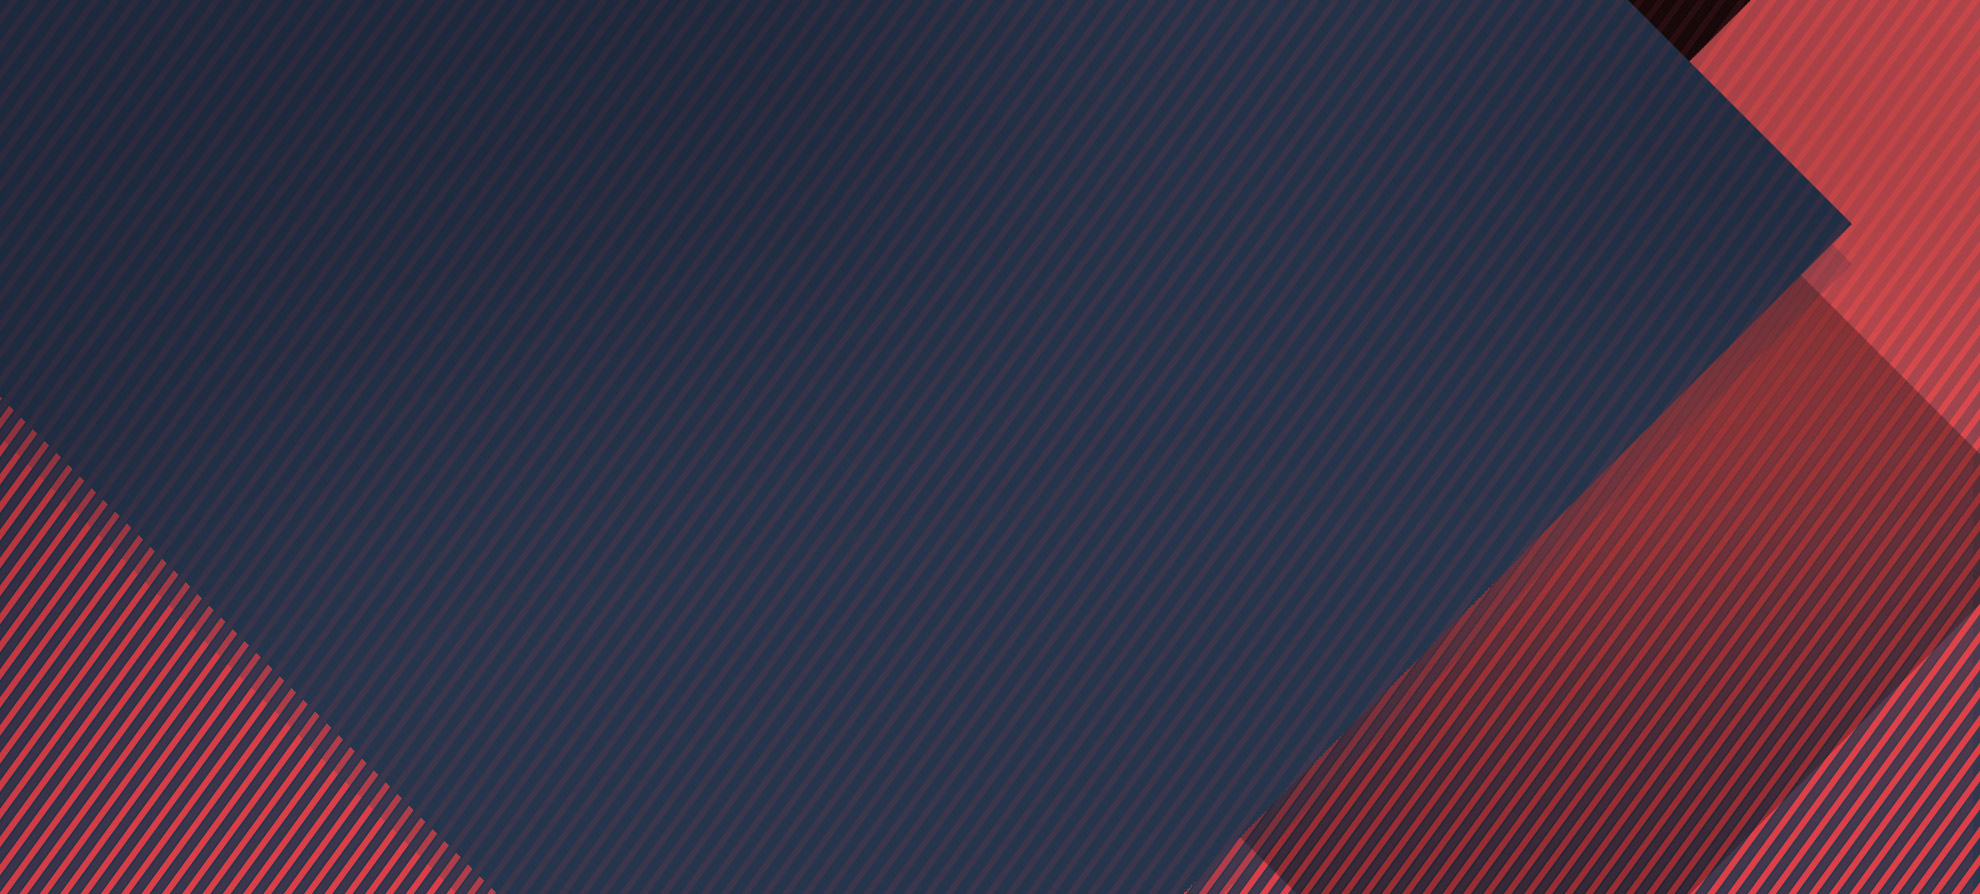
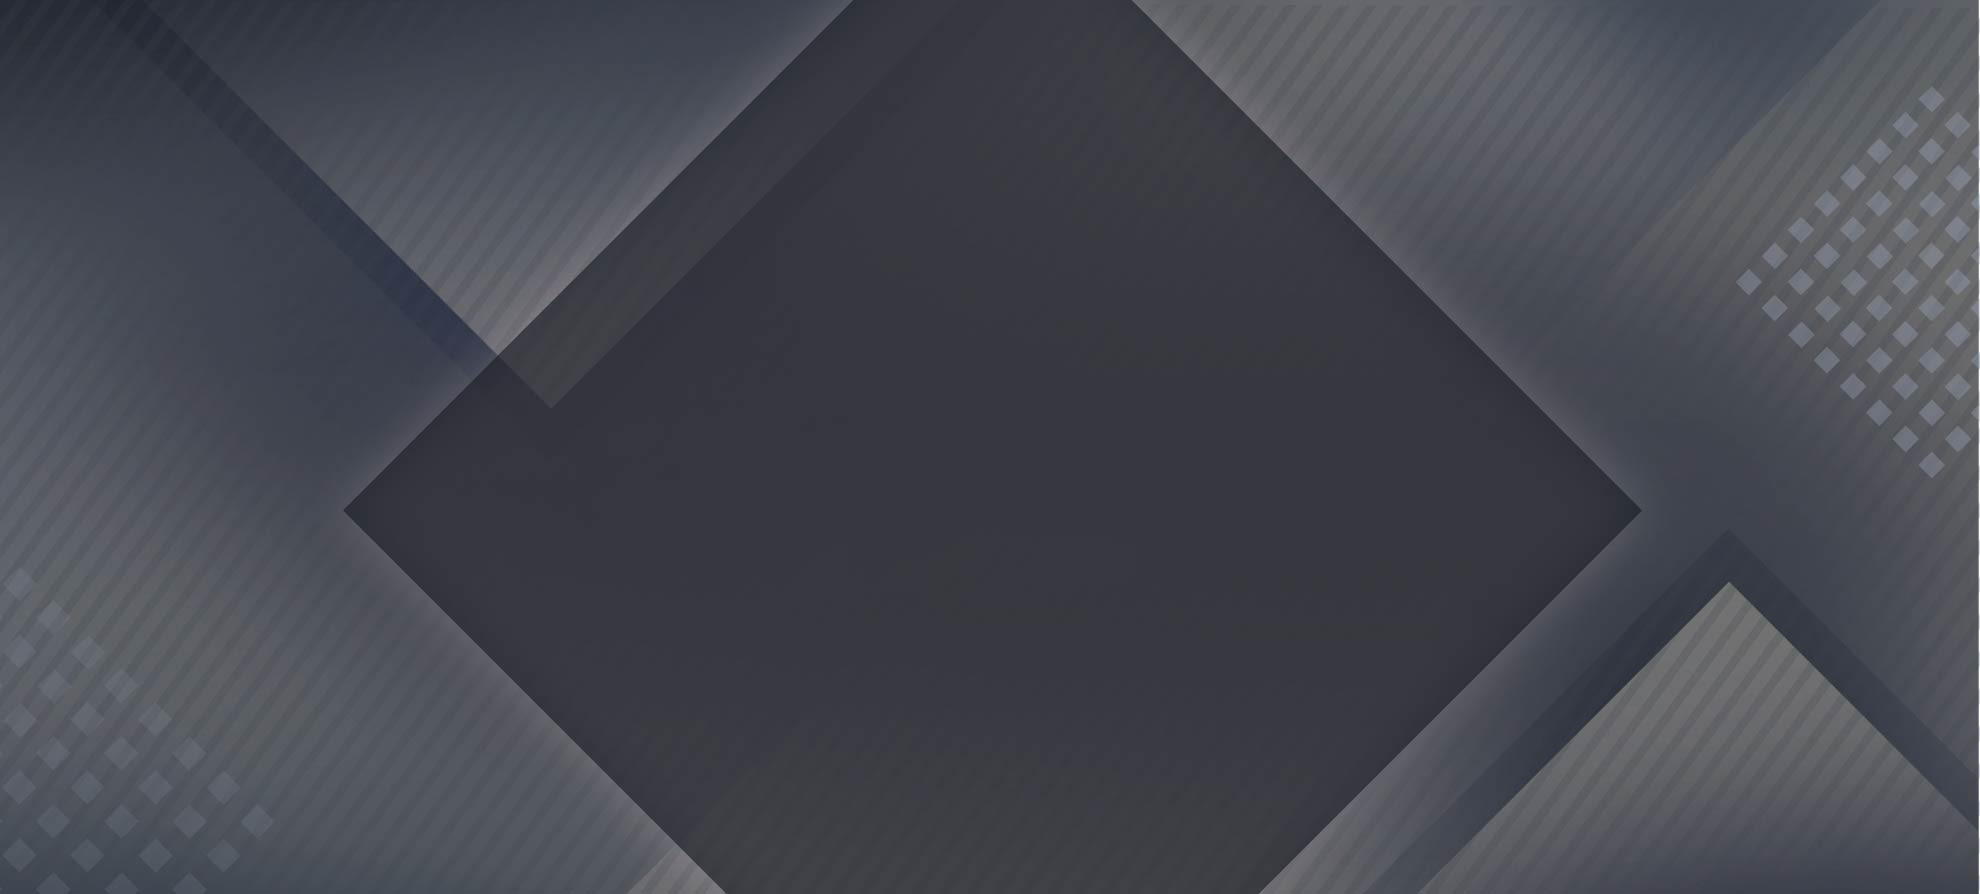
Updating login screen with new background. (#15295)
* Updating login screen with new background.

* Adding changelog snippet.

* Adjusting colors: text always white, red in logo aligned with brand color.

diff --git a/graylog2-web-interface/src/components/login/LoginChrome.tsx b/graylog2-web-interface/src/components/login/LoginChrome.tsx
@@ -24,8 +24,10 @@ import graylogLogo from 'images/auth/gl_logo_horiz.svg';
 
 const Logo = styled.img`
   display: block;
-  height: 3rem;
+  height: 5rem;
   width: auto;
+  margin: auto;
+  margin-bottom: 1.5rem;
 `;
 
 const Background = styled.div`
@@ -81,16 +83,12 @@ const WelcomeMessage = styled.strong(({ theme }) => css`
   margin-bottom: 1.5rem;
 `);
 
-const BrandName = styled.h3(({ theme }) => css`
-  color: ${theme.colors.gray['60']};
-  font-size: 1.5rem;
-  line-height: 2rem;
-`);
 const Claim = styled.h1(({ theme }) => css`
-  color: ${theme.colors.brand.secondary};
+  color: #fcfcfc;
   text-transform: uppercase;
   font-size: ${theme.fonts.size.huge};
   line-height: 1;
+  font-weight: 600;
 `);
 const Highlight = styled.span(({ theme }) => css`
   color: ${theme.colors.brand.primary};
@@ -103,7 +101,6 @@ type Props = {
 const LoginChrome = ({ children }: Props) => (
   <LoginContainer>
     <LoginBox>
-      <Logo alt="logo" src={graylogLogo} />
       <WelcomeMessage>Welcome to Graylog</WelcomeMessage>
       {children}
     </LoginBox>
@@ -113,8 +110,8 @@ const LoginChrome = ({ children }: Props) => (
       </NotificationsContainer>
       <BackgroundText>
         <TextContainer>
-          <BrandName>Graylog</BrandName>
-          <Claim><Highlight>Log Management</Highlight> Done Right</Claim>
+          <Logo alt="logo" src={graylogLogo} />
+          <Claim>Data. Insights. <Highlight>Answers.</Highlight></Claim>
         </TextContainer>
       </BackgroundText>
       <BackgroundImage alt="background" src={bgImage} />
